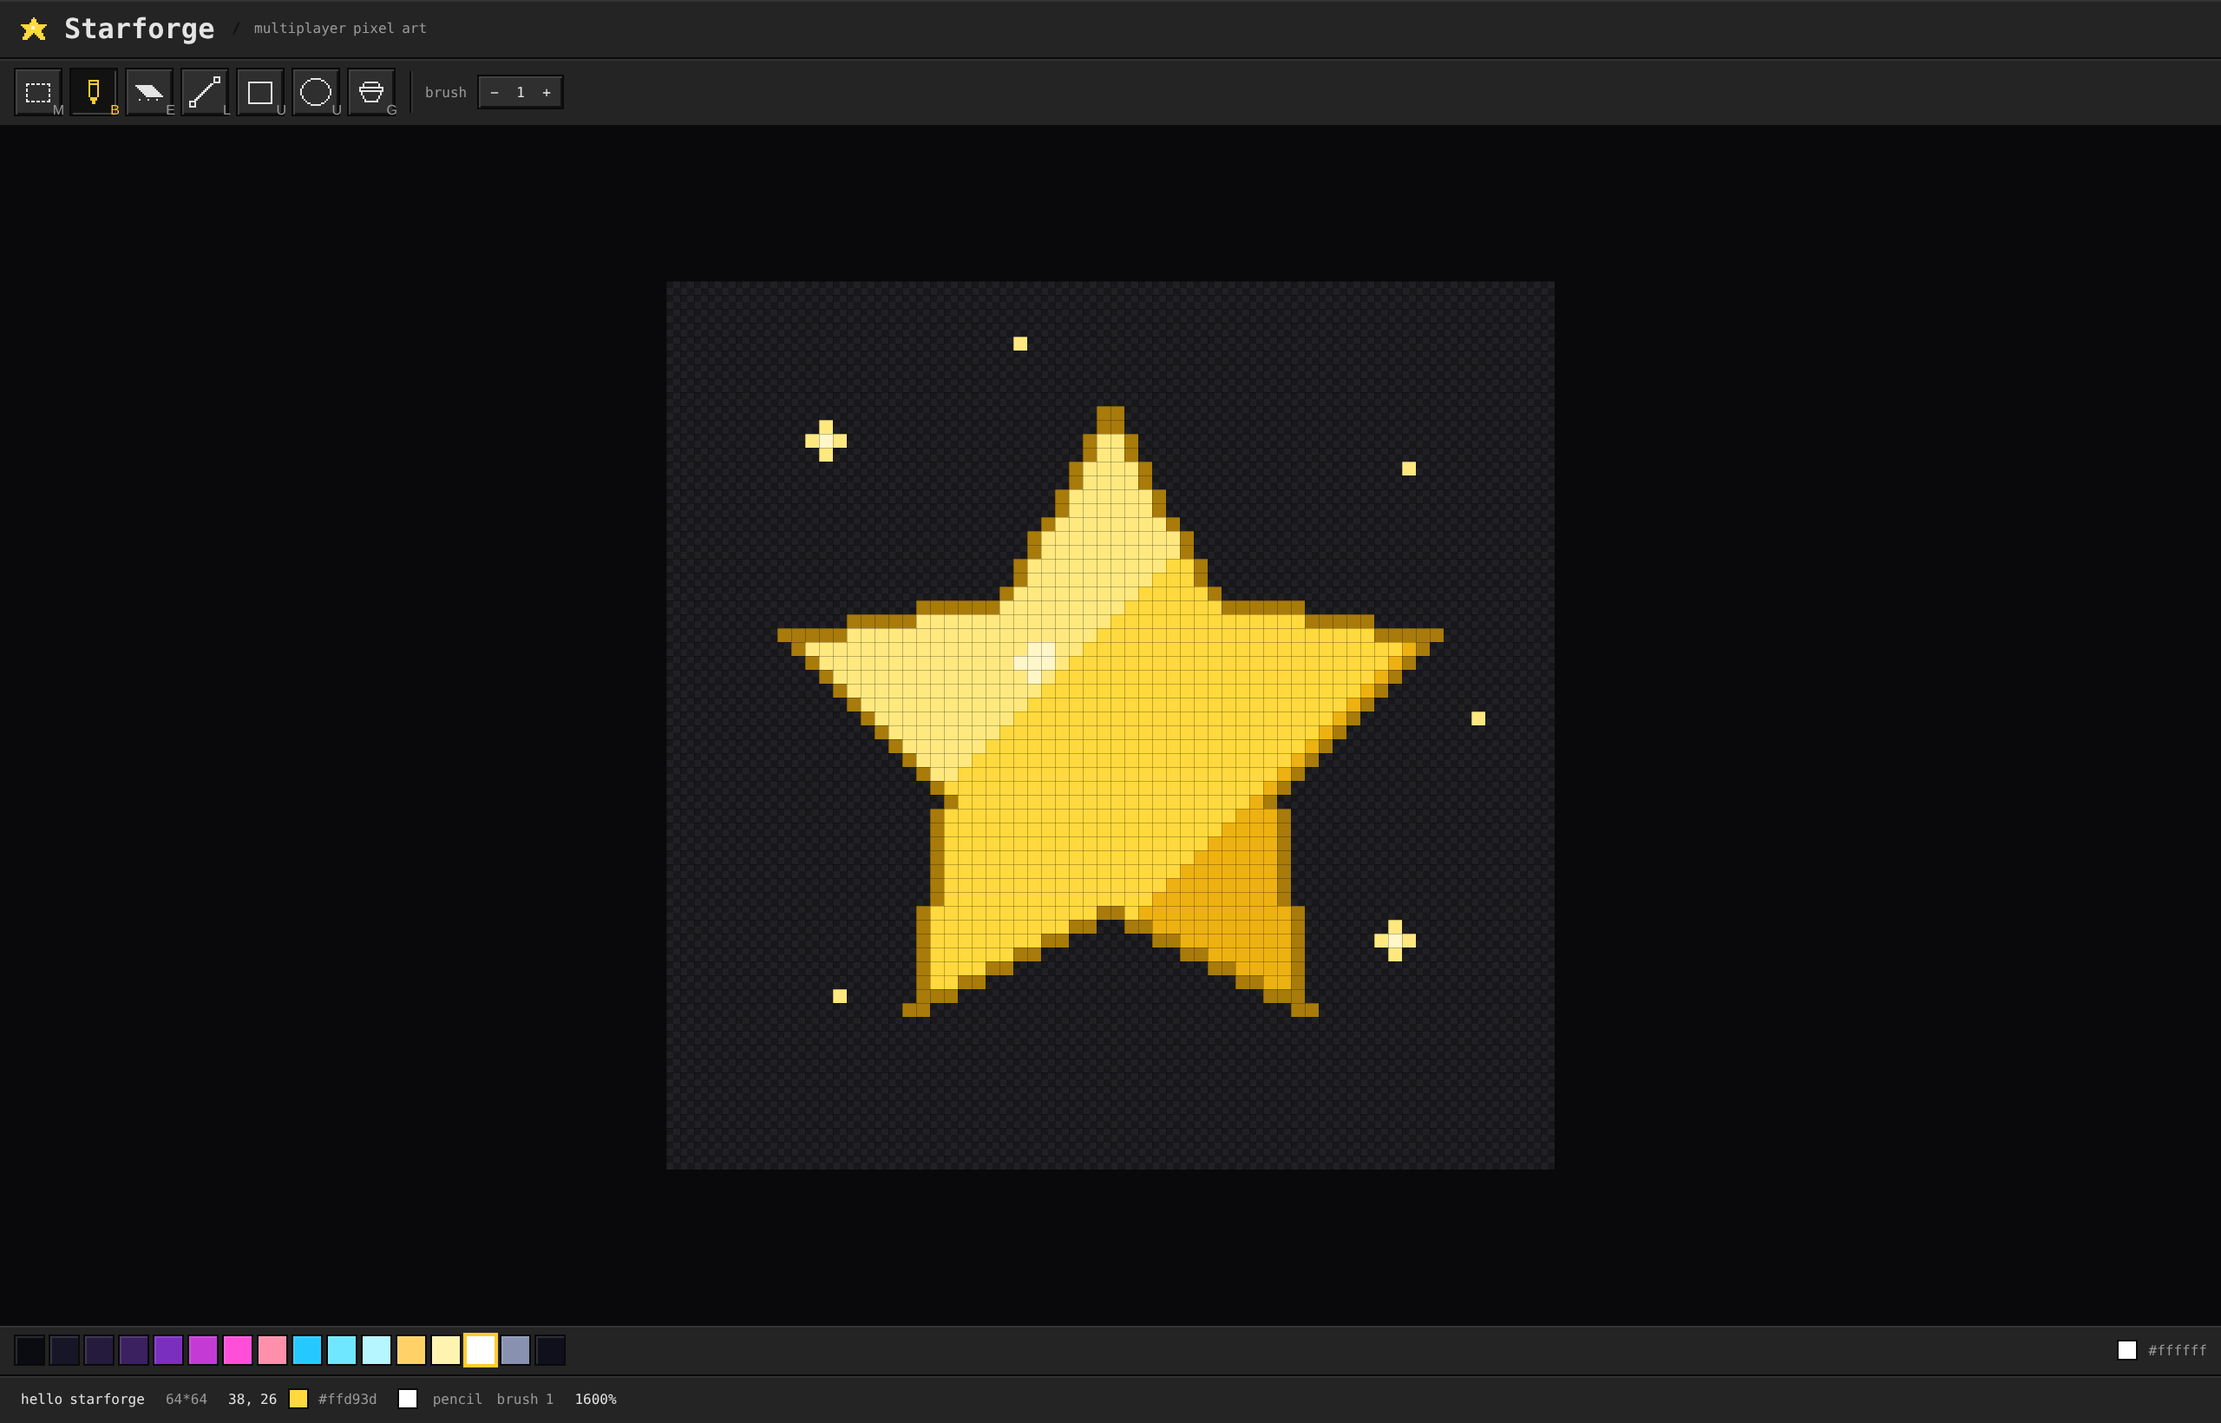
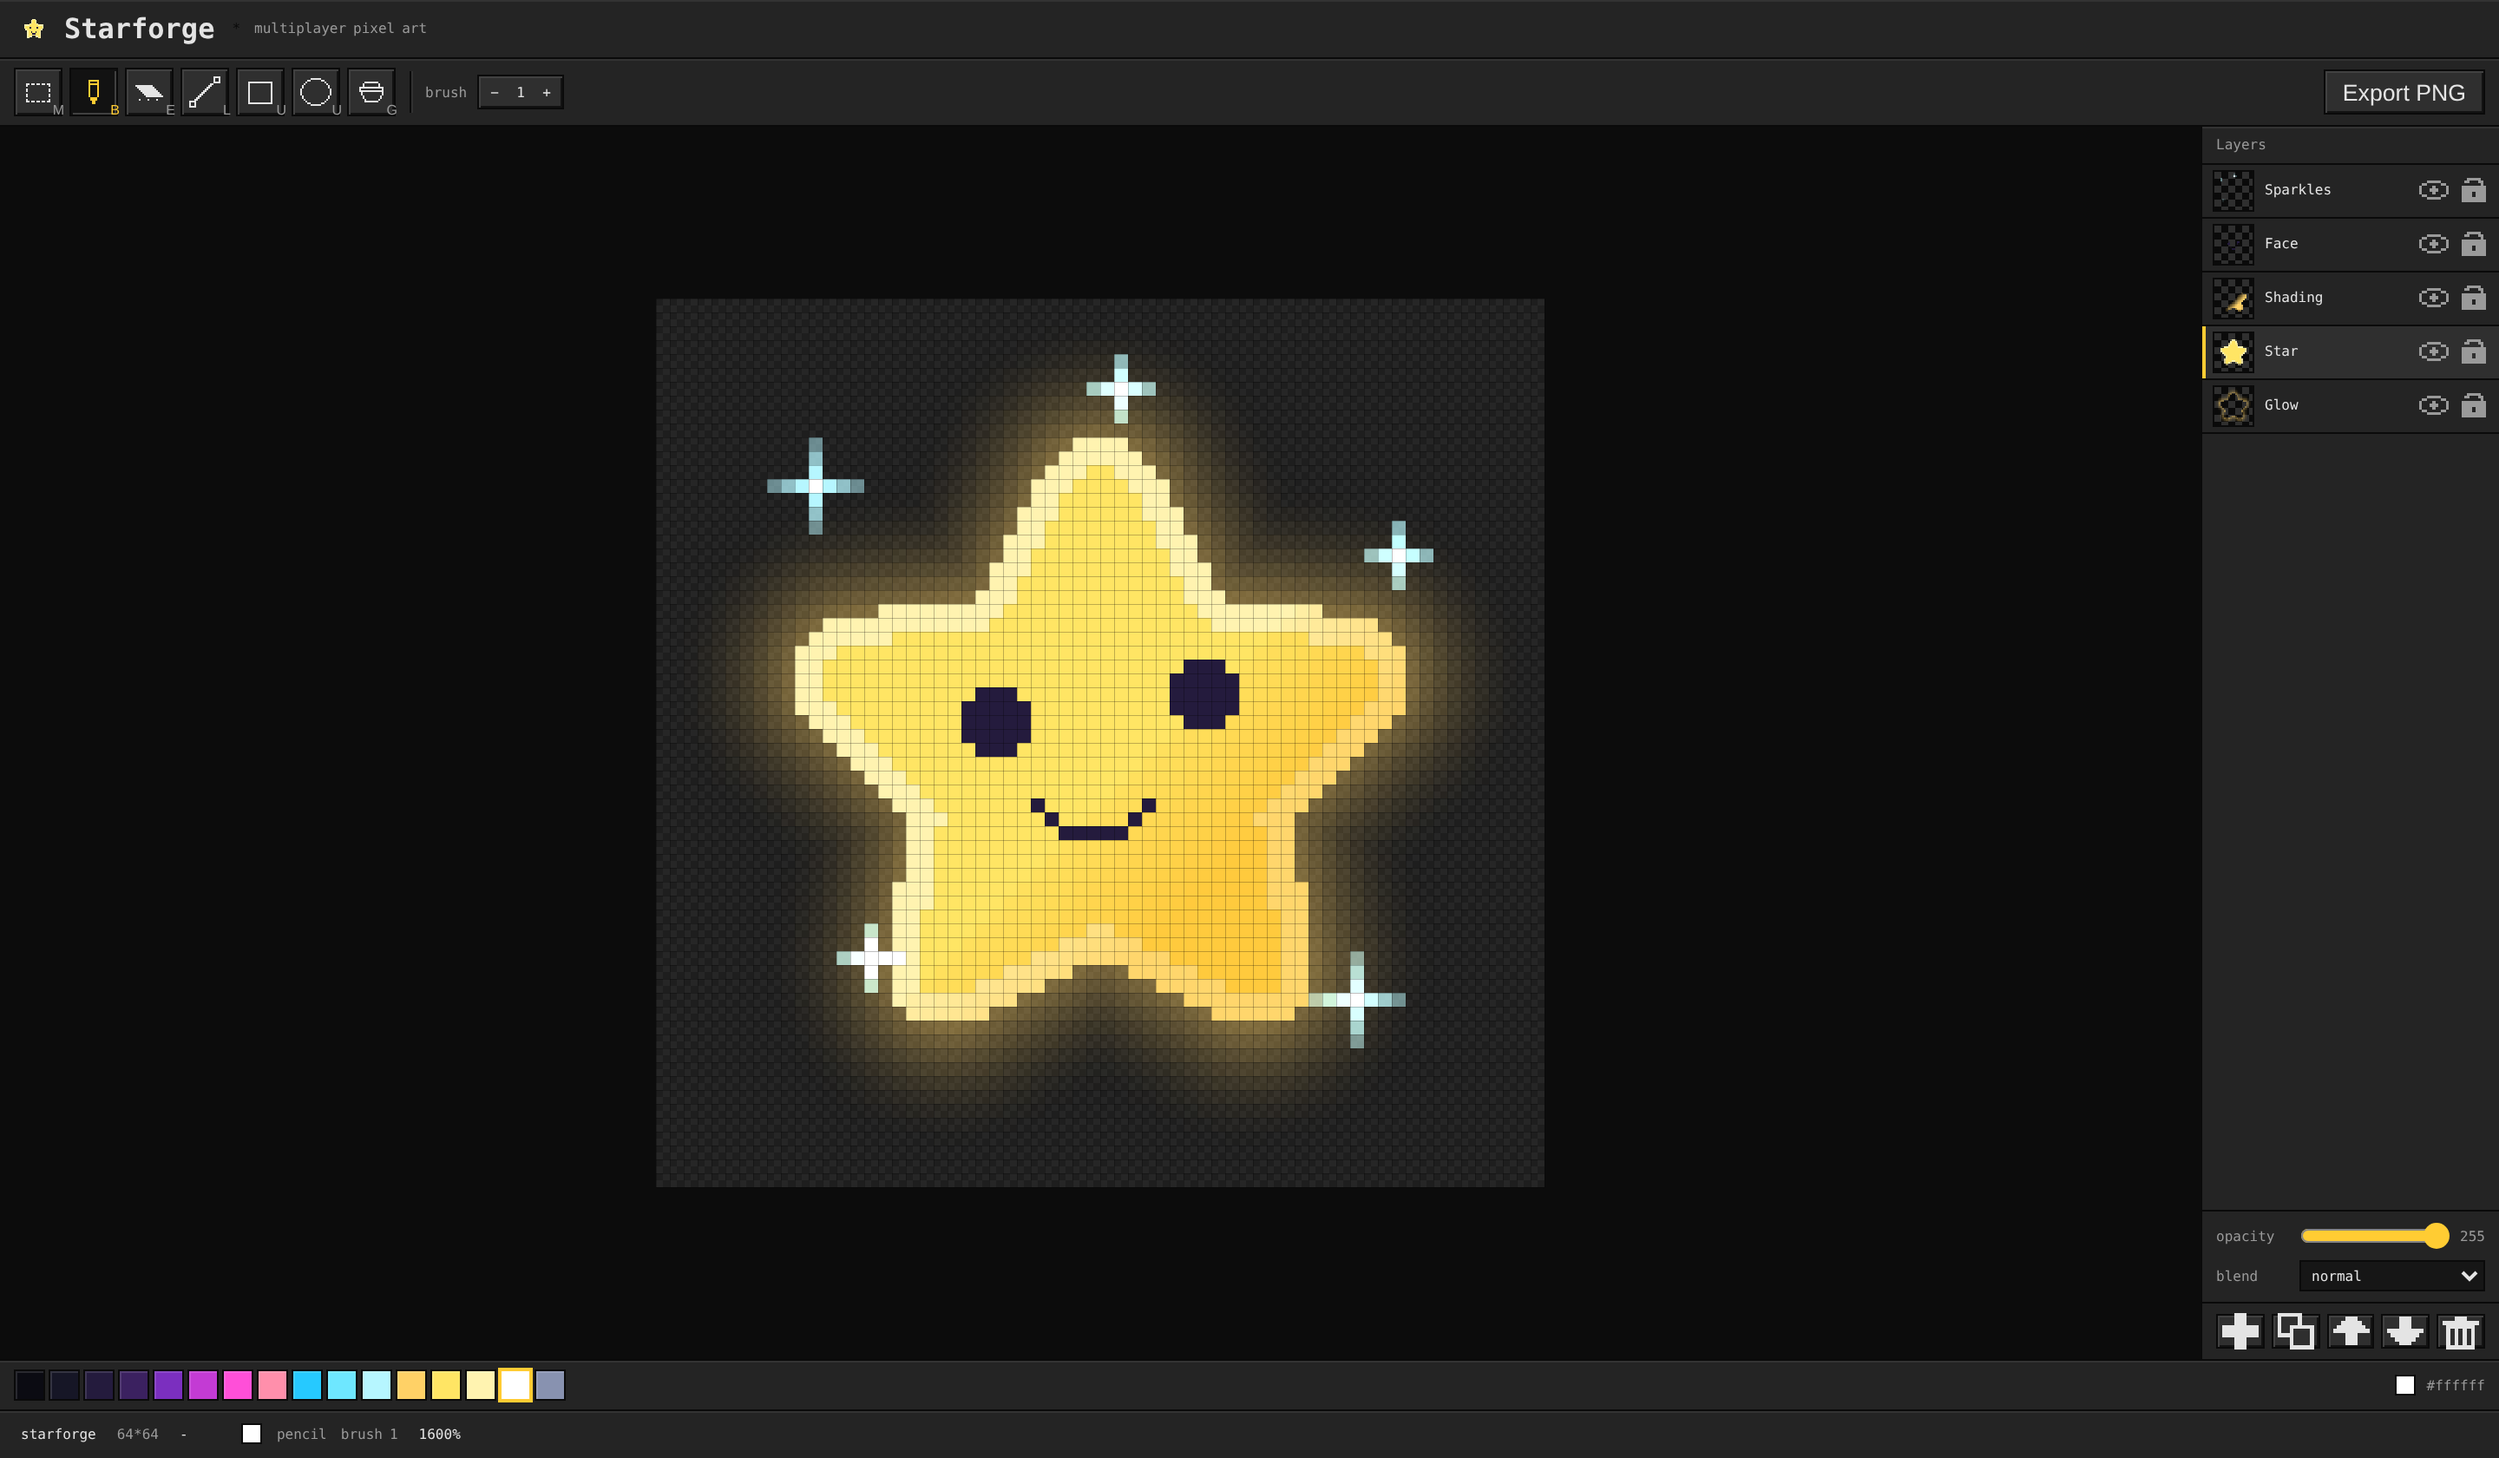
docs(readme): update for layers, blend modes and export

diff --git a/README.md b/README.md
@@ -1,40 +1,68 @@
 # Starforge
 
-A multiplayer pixel art & animation studio that runs entirely in the browser.
+[![CI](https://github.com/Gabriel-Lacorte/starforge/actions/workflows/ci.yml/badge.svg)](https://github.com/Gabriel-Lacorte/starforge/actions/workflows/ci.yml)
 
-![Starforge editor](docs/media/editor.png)
+A pixel art & animation studio that runs entirely in the browser. Open the page and draw.
 
-## Features (so far)
+![The Starforge editor](docs/media/editor.png)
 
-- Pencil, eraser, line, rectangle and ellipse
-- Bucket with scanline flood fill with per-channel tolerance, contiguous or global mode
-- Undo/redo of whole gestures (`Ctrl+Z` / `Ctrl+Shift+Z` / `Ctrl+Y`)
-- Eyedropper (`Alt`+click)
-- Palette bar with the + a status bar reading out the pixel under the cursor
-- Crisp pixel rendering at every zoom level
-- 118 tests covering client and core
+## Features
 
+**Drawing**: pencil, eraser, line, rectangle and ellipse (outline or filled),
+and a bucket with scanline flood fill, per-channel tolerance and a
+contiguous/global switch. Rectangular select with lift-and-move.
+
+**Layers**: add, duplicate, delete, reorder, rename. Per-layer opacity, seven
+blend modes (normal, multiply, screen, overlay, darken, lighten, additive),
+visibility and lock.
+
+**History**: undo and redo of whole gestures _and_ of structural edits. Dragging
+the opacity slider is one undo step, not sixty. Deleting a layer costs no memory
+to undo, the entry keeps the detached layer itself instead of copying its pixels.
+
+**Rendering**: the frame is composited once into an offscreen canvas and blitted
+to the screen, and it only recomposites when something actually changed. Pixels
+stay crisp at every zoom level.
+
+**Export**: PNG of the current frame.
+
+Keyboard:
+`B` pencil * `E` eraser * `L` line * `U` rect/ellipse * `G` bucket *
+`M` select * `[` `]` brush size * `Space` pan * `Alt`+click eyedropper
 
 ## Run locally
 
+Requires Node 20.19+.
+
 ```bash
 npm install
-npm run dev
-npm test
-npm run lint
+npm run dev      # editor at localhost:5173
+npm run build    # production bundle
+npm test         # 163 unit and property tests
+npm run lint     # prettier + eslint + tsc
 ```
-
-Node 20.19+
 
 ## Architecture
 
-Monorepo with npm workspaces:
-`core/` Holds the document model and ops with zero dependencies.
-`client/` The Vite + Preact editor.
+An npm workspace with two packages, split by what they are allowed to know:
 
-The full design document lives at
-[docs/DESIGN.md](docs/DESIGN.md).
+| Package   | Contains                                                      | Depends on |
+| --------- | ------------------------------------------------------------- | ---------- |
+| `core/`   | document model, pixel ops, flood fill, geometry, undo command | nothing    |
+| `client/` | canvas engine, tools, compositor, layers UI                   | `core`     |
+
+`core/` has zero dependencies on purpose, it is the half that the relay server
+will also run when multiplayer lands, so it cannot reach for the DOM.
+
+## Roadmap
+
+Shipped: canvas engine * the tool set above * layers.
+
+Next: palettes and symmetry * frames, timeline and onion skin * **a CRDT for
+real-time collaboration** (LWW per cell with Lamport clocks) *
+a GIF89a + LZW encoder * WebGL filters * IndexedDB autosave and
+crash recovery * a public gallery.
 
 ## License
 
-[MIT](LICENSE).
+[MIT](LICENSE)
